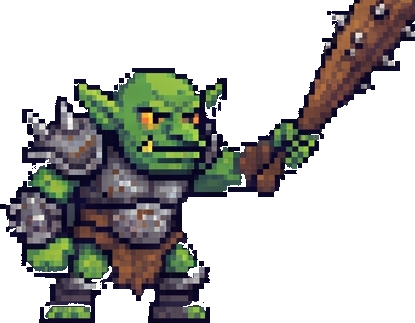
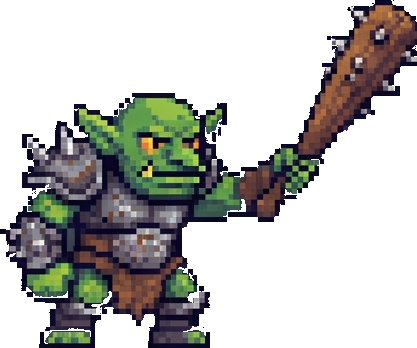
feat(assets): slice missing animation frames from sprite sheets
Add knight combo/chop/landing frames and goblin attack, hurt and death
frames. Fix the jump_peak and brute attack crops that cut off the
weapons. Only missing sprites are sliced now, so new entries get added
without rewriting existing files.

diff --git a/slice_assets.py b/slice_assets.py
@@ -185,11 +185,22 @@ KNIGHT_SPRITES = [
     ("knight", "combo_1", (305, 82, 292, 224), False, True),
     ("knight", "combo_2", (642, 82, 229, 224), False, True),
     ("knight", "combo_3", (918, 82, 232, 224), False, True),
+    ("knight", "combo_recover", (1179, 84, 162, 227), False, True),
+    # Heavy overhead chop (first row).
+    ("knight", "chop_raise", (1693, 90, 296, 221), False, True),
+    ("knight", "chop_strike", (2026, 88, 183, 224), False, True),
+    ("knight", "chop_extend", (2256, 84, 196, 227), False, True),
+    ("knight", "chop_recover", (2492, 83, 164, 228), False, True),
+    # Heavy overhead chop (second row).
+    ("knight", "heavy_raise", (291, 392, 187, 248), False, True),
+    ("knight", "heavy_crescent", (598, 379, 315, 263), False, True),
+    ("knight", "heavy_recover", (1179, 415, 162, 224), False, True),
     # Lunge and jump attacks.
     ("knight", "lunge", (408, 725, 353, 231), False, True),
     ("knight", "jump_start", (1827, 680, 143, 260), False, True),
-    ("knight", "jump_peak", (2029, 657, 165, 250), False, True),
+    ("knight", "jump_peak", (1992, 653, 207, 251), False, True),
     ("knight", "jump_slash", (2241, 680, 190, 260), False, True),
+    ("knight", "jump_land", (2502, 739, 177, 222), False, True),
     # Spin attack.
     ("knight", "spin_1", (375, 1060, 346, 222), False, True),
     ("knight", "spin_2", (756, 1060, 332, 222), False, True),
@@ -211,21 +222,32 @@ GOBLIN_SPRITES = [
     ("enemies", "goblin_warrior_walk_2", (636, 55, 189, 217), False, True),
     ("enemies", "goblin_warrior_attack_1", (895, 16, 198, 256), False, True),
     ("enemies", "goblin_warrior_attack_2", (1194, 50, 214, 222), False, True),
+    ("enemies", "goblin_warrior_attack_3", (1464, 77, 252, 200), False, True),
     ("enemies", "goblin_warrior_hurt", (1755, 45, 203, 227), False, True),
+    ("enemies", "goblin_warrior_hurt_2", (2021, 54, 229, 223), False, True),
     ("enemies", "goblin_warrior_dead", (2369, 120, 280, 152), False, True),
     # Goblin archer.
     ("enemies", "goblin_archer_idle", (86, 374, 198, 232), False, True),
+    ("enemies", "goblin_archer_draw", (357, 386, 210, 224), False, True),
     ("enemies", "goblin_archer_aim", (630, 374, 253, 232), False, True),
     ("enemies", "goblin_archer_shoot", (930, 374, 259, 232), False, True),
+    ("enemies", "goblin_archer_release", (1269, 386, 224, 224), False, True),
+    ("enemies", "goblin_archer_hurt", (2026, 368, 219, 242), False, True),
+    ("enemies", "goblin_archer_dead", (2365, 495, 332, 112), False, True),
     ("enemies", "goblin_arrow", (1659, 465, 174, 50), True, True),
     # Goblin mage.
     ("enemies", "goblin_mage_idle", (86, 685, 227, 265), False, True),
+    ("enemies", "goblin_mage_charge", (481, 691, 270, 270), False, True),
     ("enemies", "goblin_mage_cast", (1067, 685, 238, 265), False, True),
     ("enemies", "goblin_fireball", (1448, 750, 347, 160), True, True),
+    ("enemies", "goblin_mage_hurt", (2015, 702, 230, 259), False, True),
+    ("enemies", "goblin_mage_dead", (2364, 776, 311, 185), False, True),
     # Goblin brute.
     ("enemies", "goblin_brute_idle", (75, 1020, 382, 265), False, True),
-    ("enemies", "goblin_brute_attack", (500, 960, 415, 325), False, True),
+    ("enemies", "goblin_brute_attack", (496, 931, 421, 356), False, True),
     ("enemies", "goblin_brute_smash", (1279, 1020, 374, 265), False, True),
+    ("enemies", "goblin_brute_hurt", (1962, 1017, 300, 270), False, True),
+    ("enemies", "goblin_brute_dead", (2353, 1103, 352, 194), False, True),
     # Goblin props.
     ("props", "barricade", (82, 1310, 302, 182), False, True),
     ("props", "banner", (946, 1185, 142, 308), False, True),
@@ -241,9 +263,6 @@ def slice_all_assets(assets_dir: str = "assets", force: bool = False) -> str:
     Returns the path to the `sliced` directory.
     """
     sliced_dir = os.path.join(assets_dir, "sliced")
-    marker_file = os.path.join(sliced_dir, ".sliced_v1")
-    if os.path.exists(marker_file) and not force:
-        return sliced_dir
 
     if not pygame.get_init():
         pygame.init()
@@ -254,13 +273,23 @@ def slice_all_assets(assets_dir: str = "assets", force: bool = False) -> str:
         "goblin.jpg": GOBLIN_SPRITES,
     }
 
-    total_saved = 0
     for sheet_filename, sprite_defs in sheets.items():
         sheet_path = os.path.join(assets_dir, sheet_filename)
         if not os.path.exists(sheet_path):
             continue
+
+        # Only slice sprites whose PNG is missing, so new entries are added
+        # without rewriting the files that already exist.
+        missing = []
+        for sprite_def in sprite_defs:
+            out_path = os.path.join(sliced_dir, sprite_def[0], sprite_def[1] + ".png")
+            if force or not os.path.exists(out_path):
+                missing.append(sprite_def)
+        if len(missing) == 0:
+            continue
+
         sheet = pygame.image.load(sheet_path)
-        for category, name, rect, rem_interior, trim in sprite_defs:
+        for category, name, rect, rem_interior, trim in missing:
             cat_dir = os.path.join(sliced_dir, category)
             os.makedirs(cat_dir, exist_ok=True)
             out_path = os.path.join(cat_dir, f"{name}.png")
@@ -272,6 +301,9 @@ def slice_all_assets(assets_dir: str = "assets", force: bool = False) -> str:
                 excl = [(1190, 710, 18, 50)]
             elif name == "heart_empty":
                 strict = True
+            elif name == "goblin_brute_attack":
+                # The mage's feet from the row above reach into this crop.
+                excl = [(496, 931, 262, 28)]
 
             sprite_surf = extract_sprite(
                 sheet,
@@ -282,11 +314,6 @@ def slice_all_assets(assets_dir: str = "assets", force: bool = False) -> str:
                 strict_bg_only=strict,
             )
             pygame.image.save(sprite_surf, out_path)
-            total_saved += 1
-
-    os.makedirs(sliced_dir, exist_ok=True)
-    with open(marker_file, "w", encoding="utf-8") as f:
-        f.write(f"Sliced {total_saved} sprites\n")
 
     return sliced_dir
 
